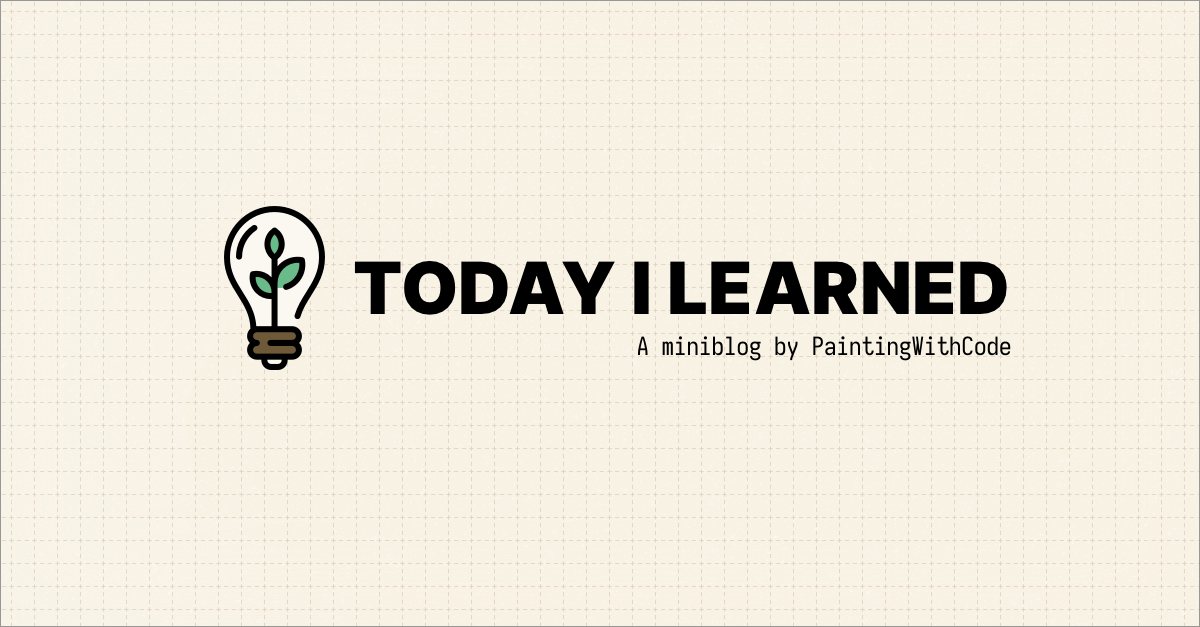
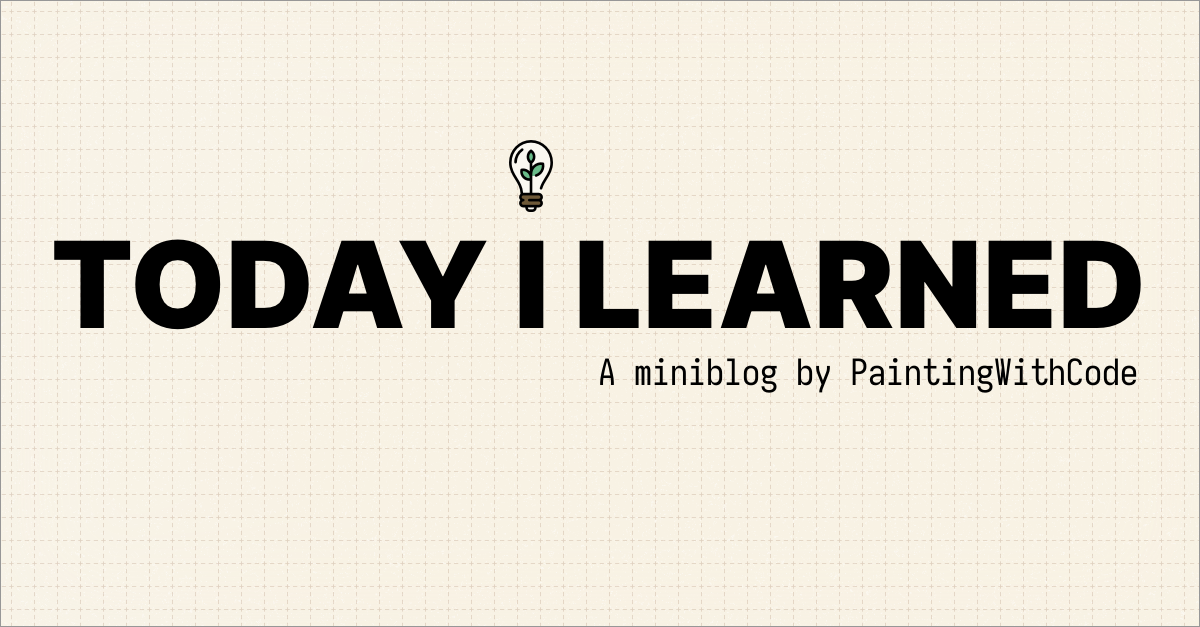
style: Clean up code + tweak OG template

Changed region(s): [[0.0308, 0.303, 0.9558, 0.6364], [0.4008, 0.2121, 0.4625, 0.3333]]

diff --git a/src/lib/db/index.ts b/src/lib/db/index.ts
@@ -1,14 +1,16 @@
-import { createClient as createEdgeClient } from '@libsql/client/web';
 import { drizzle } from 'drizzle-orm/libsql';
 
 import { DATABASE_URL, DATABASE_AUTH_TOKEN } from '$env/static/private';
 
-// ! To use a local SQLite db in development, uncomment the code below and comment out the edgeClient.
-// ! The createlocalClient import MUST be commented out to build using the Cloudflare Adapter
-// import { createClient as createLocalClient } from '@libsql/client';
-// const client = createLocalClient({ url: DATABASE_URL });
+let client;
 
-const client = createEdgeClient({ url: DATABASE_URL, authToken: DATABASE_AUTH_TOKEN });
+if (import.meta.env.DEV) {
+	const { createClient: createLocalClient } = await import('@libsql/client');
+	client = createLocalClient({ url: DATABASE_URL });
+} else {
+	const { createClient: createEdgeClient } = await import('@libsql/client/web');
+	client = createEdgeClient({ url: DATABASE_URL, authToken: DATABASE_AUTH_TOKEN });
+}
 
 const db = drizzle(client);
 

diff --git a/src/routes/+layout.svelte b/src/routes/+layout.svelte
@@ -3,10 +3,9 @@
 	import { MetaTags } from 'svelte-meta-tags';
 
 	import { afterNavigate } from '$app/navigation';
-	import { Header, Footer } from '$lib/components';
 	import { page } from '$app/stores';
+	import { Header, Footer } from '$lib/components';
 	import { author, description, ogImageUrl, siteUrl } from '$lib/core/config';
-	import Analytics from '$lib/components/Analytics.svelte';
 
 	type ScrollEvent = UIEvent & {
 		currentTarget: EventTarget & HTMLDivElement;
@@ -48,8 +47,6 @@
 		}}
 	/>
 {/if}
-
-<Analytics />
 
 <div id="page" class="min-w-screen h-screen overflow-y-auto" on:scroll={onContainerScroll}>
 	<Header isGradientDisabled={isHeaderGradientDisabled} />

diff --git a/src/lib/components/index.ts b/src/lib/components/index.ts
@@ -1,4 +1,3 @@
-export { default as Analytics } from './Analytics.svelte';
 export { default as Header } from './Header.svelte';
 export { default as Feed } from './Feed.svelte';
 export { default as Post } from './Post/Post.svelte';

diff --git a/scripts/db/setup.ts b/scripts/db/setup.ts
@@ -11,6 +11,7 @@ async function setupStats() {
 
 async function main() {
 	await setupStats();
+	console.log(`✔ Successfully applied migrations.`);
 }
 
 main();

diff --git a/README.md b/README.md
@@ -8,8 +8,7 @@ Inspired by the TIL blogs of [Hashrocket](https://til.hashrocket.com/) and [Simo
 - **Styling**: [Tailwind CSS](https://tailwindcss.com)
 - **ORM**: [Drizzle](https://orm.drizzle.team/)
 - **Database**: [Turso](https://turso.tech)
-- **Serverless Functions**: [Cloudflare Workers](https://workers.cloudflare.com)
-- **Deployment**: [Cloudflare Pages](https://pages.cloudflare.com)
+- **Deployment + Serverless Functions**: [Cloudflare Pages](https://pages.cloudflare.com)
 
 
 ## Running locally
